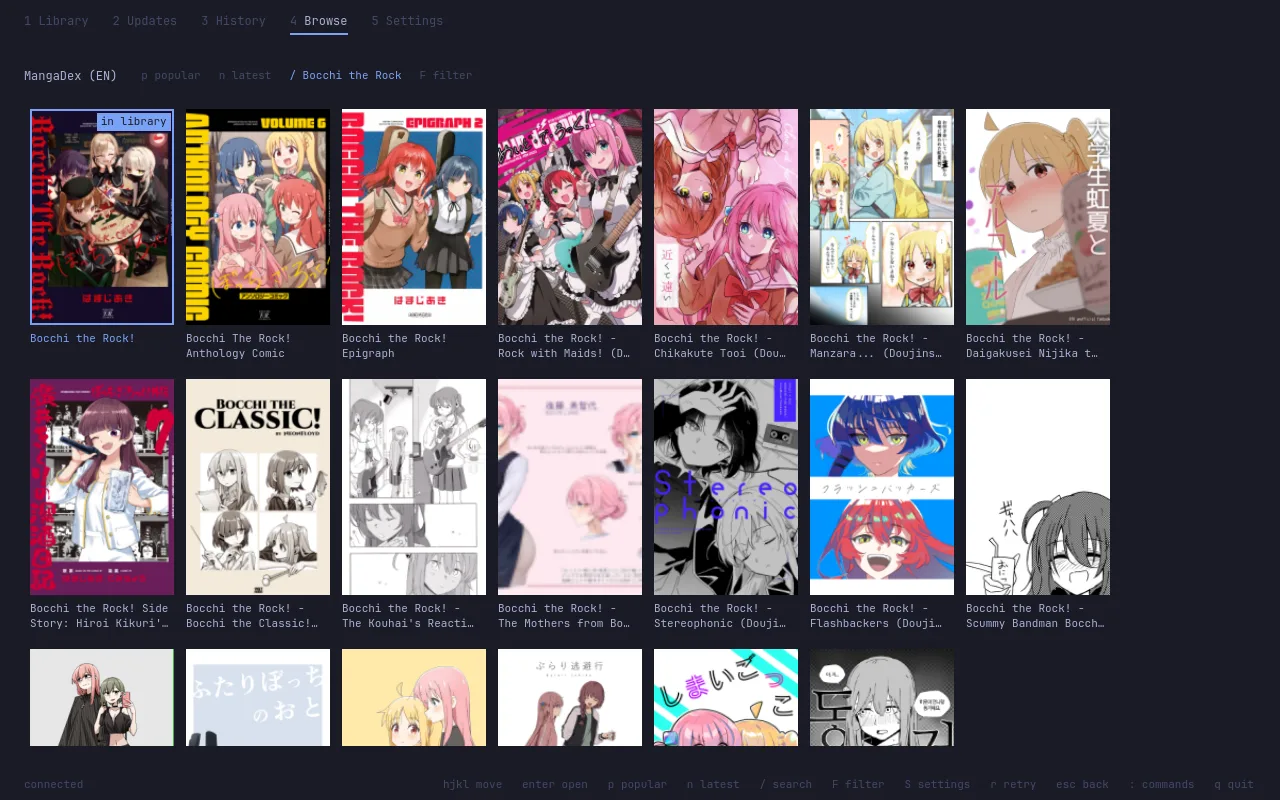
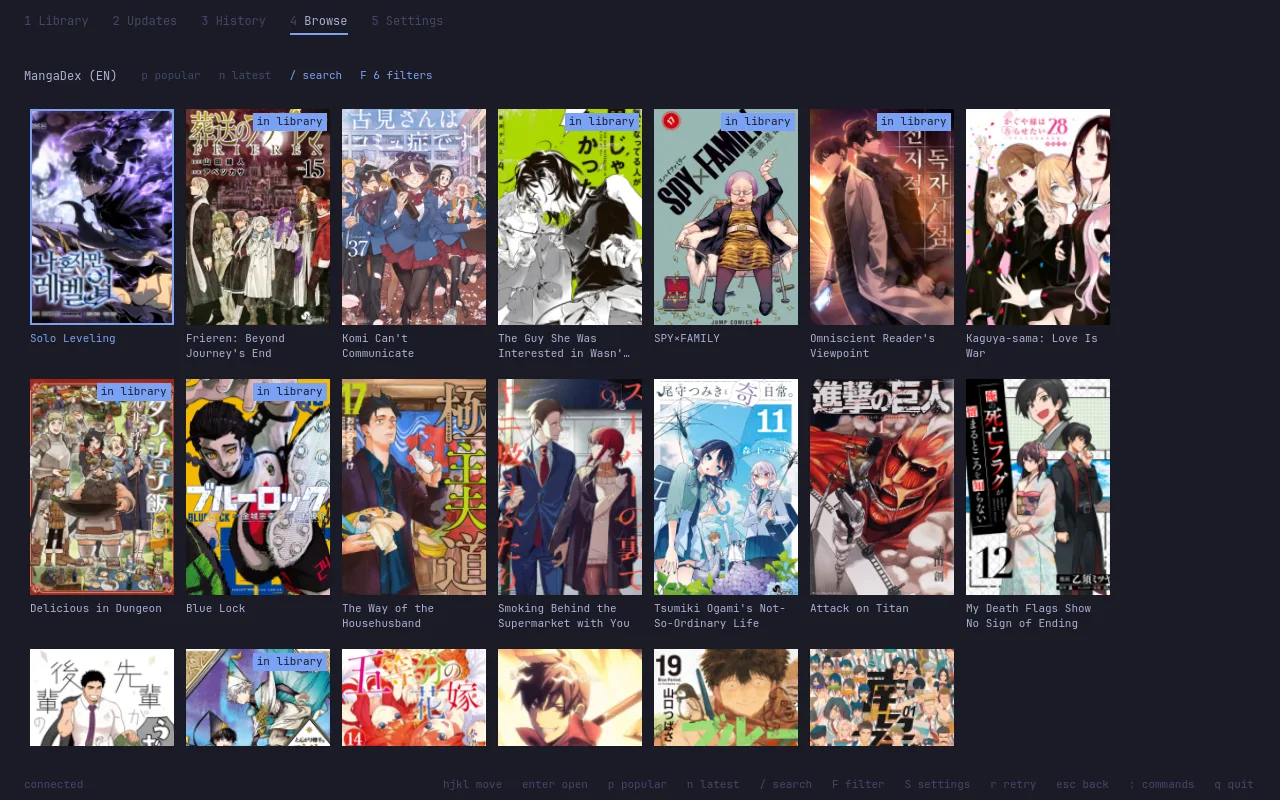
Show a fuller Updates list and a curated Browse grid on the site
Updates now mixes nine series that still release in English, with a
download and two bookmarks. Browse shows MangaDex filtered to safe,
award-winning, most-followed series. The library, bar popup and alt
texts follow.

diff --git a/site/index.html b/site/index.html
@@ -395,12 +395,12 @@ footer img { width: 32px; height: 32px; display: inline-block; vertical-align: m
       <figcaption><span class="no">04</span><span class="txt"><b>Webtoon.</b> Long strips scroll as one, picked from the manga's tags.</span></figcaption>
     </figure>
     <figure class="tape">
-      <a href="img/updates.webp"><img src="img/updates.webp" width="1280" height="800" alt="The Updates view listing new chapters of Blue Lock, One-Punch Man and Bocchi the Rock!, grouped under Today." loading="lazy"></a>
-      <figcaption><span class="no">05</span><span class="txt"><b>Updates.</b> New chapters from your library, filters and bulk actions.</span></figcaption>
+      <a href="img/updates.webp"><img src="img/updates.webp" width="1280" height="800" alt="The Updates view listing new chapters of SSS-Class Revival Hunter, The Guy She Was Interested in Wasn't a Guy at All, The Saga of Tanya the Evil, The Eminence in Shadow, The Rising of the Shield Hero and Iruma-kun, with a downloaded marker and two bookmark stars." loading="lazy"></a>
+      <figcaption><span class="no">05</span><span class="txt"><b>Updates.</b> New chapters from your library, with bookmarks, downloads, filters and bulk actions.</span></figcaption>
     </figure>
     <figure class="tape wide">
-      <a href="img/browse.webp"><img src="img/browse.webp" width="1280" height="800" alt="Browse: MangaDex search results for Bocchi the Rock as a cover grid, with the title already in the library marked." loading="lazy"></a>
-      <figcaption><span class="no">06</span><span class="txt"><b>Browse.</b> Every source from Mihon's extension repos: search, filters, global search, extensions.</span></figcaption>
+      <a href="img/browse.webp"><img src="img/browse.webp" width="1280" height="800" alt="Browse: MangaDex with six filters applied, a cover grid of the most-followed award-winning series such as Solo Leveling, Frieren, Komi Can't Communicate, SPY×FAMILY, Kaguya-sama, Delicious in Dungeon and Attack on Titan, with titles already in the library marked." loading="lazy"></a>
+      <figcaption><span class="no">06</span><span class="txt"><b>Browse.</b> Every source from Mihon's extension repos. Here MangaDex with its own filters: safe, award winning, most followed.</span></figcaption>
     </figure>
   </div>
 </section>
@@ -411,7 +411,7 @@ footer img { width: 32px; height: 32px; display: inline-block; vertical-align: m
   <div class="two">
     <div>
       <div class="bar-shot">
-        <img src="img/bar-popup.webp" width="1520" height="600" alt="The Miharchy mark in a bar strip with a count of 4, and its popup listing four new chapters with the hints enter read, w window, s sync and r refresh." loading="lazy">
+        <img src="img/bar-popup.webp" width="1520" height="1220" alt="The Miharchy mark in a bar strip with a count of 18, and its popup listing ten new chapters, 8 more in the window, and the hints enter read, w window, s sync and r refresh." loading="lazy">
       </div>
       <p class="note">The mark and its popup are the real <code>plugin/Mark.qml</code>, rendered offscreen. The bar around them (workspaces, clock, tray) and the popup's frame are stand-ins drawn for this picture, not a desktop capture.</p>
     </div>
